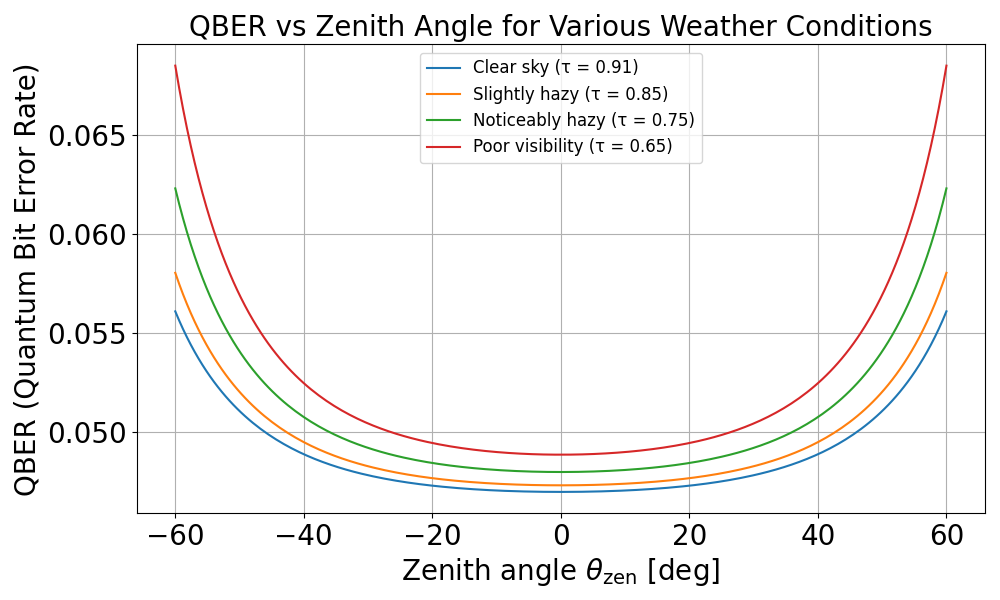
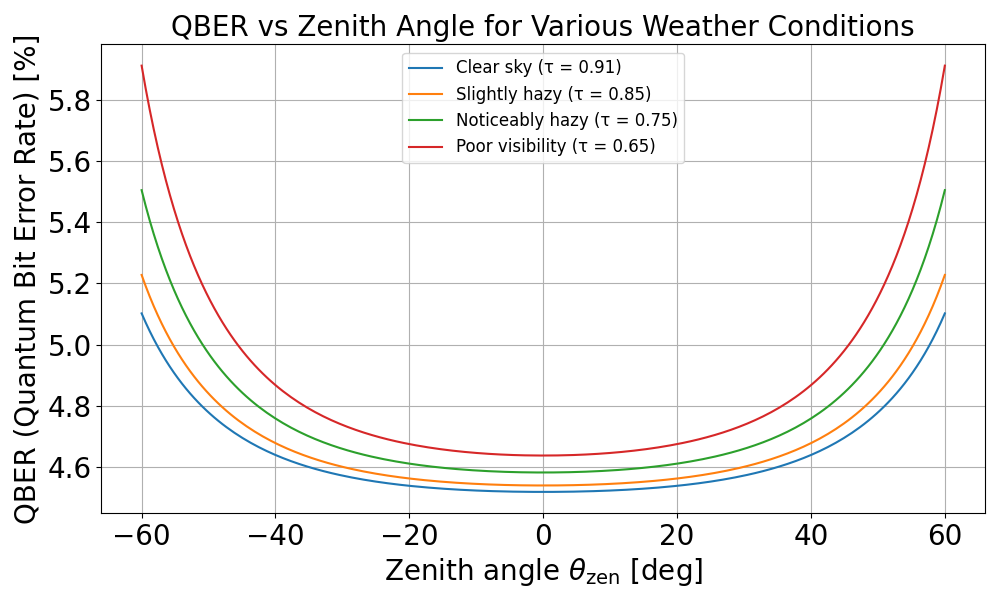
WIP:simulate average of QBER

diff --git a/BB84/Model/fading.py b/BB84/Model/fading.py
@@ -13,70 +13,63 @@ from circle_beam_transmissivity import transmissivity_etab
 #==================================================================#
 # a : Aperture of radius (Receiver radis in meters) (m)
 #==================================================================#
-a = 0.75
+# a = 0.75
 
-#==================================================================#
-# r : Radial jitter distance (m)
-#==================================================================#
-r = 5
+# #==================================================================#
+# # r : Radial jitter distance (m)
+# #==================================================================#
+# r = 5
 
-#==================================================================#
-# len_wave : Optical wavelength (μm)
-#==================================================================#
-len_wave = 0.85e-6
+# #==================================================================#
+# # len_wave : Optical wavelength (μm)
+# #==================================================================#
+# len_wave = 0.85e-6
 
-#==================================================================#
-# sigma_R : Rytov variance (乱流の強さの指標)
-#==================================================================#
-# sigma_R_squared = 1.0
+# #==================================================================#
+# # altitude ground station
+# #==================================================================#
+# H_ogs = 10 # (m)
 
-#==================================================================#
-# altitude ground station
-#==================================================================#
-H_ogs = 10 # (m)
+# #==================================================================#
+# # h_s : Altitude between LEO satellite and ground station (m)
+# #==================================================================#
+# h_s = 500e3  # 500 km
 
-#==================================================================#
-# h_s : Altitude between LEO satellite and ground station (m)
-#==================================================================#
-h_s = 500e3  # 500 km
+# #==================================================================#
+# # H_a : Upper end of atmosphere (km)
+# #==================================================================#
+# H_a = 0.01  # 10 m (大気の終端高度)
 
-#==================================================================#
-# H_a : Upper end of atmosphere (km)
-#==================================================================#
-H_a = 0.01  # 10 m (大気の終端高度)
+# #==================================================================#
+# # tau_zen : Transmission efficiency at zenith
+# #==================================================================#
+# tau_zen = 0.85  # 天頂方向での大気透過率
 
-#==================================================================#
-# tau_zen : Transmission efficiency at zenith
-#==================================================================#
-tau_zen = 0.85  # 天頂方向での大気透過率
+# #==================================================================#
+# # theta_zen_rad : Zenith angle (rad)
+# #==================================================================#
+# # theta_zen_rad = math.radians(10)
 
-#==================================================================#
-# theta_zen_rad : Zenith angle (rad)
-#==================================================================#
-theta_zen_rad = math.radians(31.45)
+# #==================================================================#
+# # theta_d_rad : Optical beam divergence angle (rad)
+# #==================================================================#
+# theta_d_rad = 10e-6 
 
-#==================================================================#
-# theta_d_rad : Optical beam divergence angle (rad)
-#==================================================================#
-theta_d_rad = 10e-6 
-
-#==================================================================#
-# v_wind: wind_speed
-#==================================================================#
-v_wind = 21 
-
-
-#==================================================================#
+# #==================================================================#
+# # v_wind: wind_speed
+# #==================================================================#
+# v_wind = 21 
+# #==================================================================#
 # the maximum vertical altitude of atmosphere scaled from maximum 
 # slant path h_slant,max over the atmosphere at minimum zenith angle
 # atomospheric altitude
 #==================================================================#
-H_atm = 20000*math.cos(theta_zen_rad) 
+# H_atm = 20000*math.cos(theta_zen_rad) 
 
 #==================================================================#
 # waist : Beam waist radius at receiver (m)
 #==================================================================#
-waist = beam_waist(h_s, H_a, theta_zen_rad, theta_d_rad)
+# waist = beam_waist(h_s, H_a, theta_zen_rad, theta_d_rad)
 
 
 def get_beam_jitter_params(condition, theta_d_rad):
@@ -122,17 +115,17 @@ def approximate_jitter_variance(mu_x, mu_y, sigma_x, sigma_y):
     return sigma_mod_value
 
 # calculate the ratios between the equivalent beam-width and (modified) beam-jitter variances
-def sigma_to_variance(sigma):
+def sigma_to_variance(sigma, waist):
     variance = waist/2*sigma
     return variance
 
 # calculate the modified fracton of collected power over the receiving aparture when there is no pointing error
-def mod_jitter(mu_x, mu_y, sigma_x, sigma_y):
+def mod_jitter(mu_x, mu_y, sigma_x, sigma_y, waist):
     A_0 = transmissivity_0(a, waist)
-    varphi_x = sigma_to_variance(sigma_x)
-    varphi_y = sigma_to_variance(sigma_y)
+    varphi_x = sigma_to_variance(sigma_x, waist)
+    varphi_y = sigma_to_variance(sigma_y, waist)
     sigma_mod = approximate_jitter_variance(mu_x, mu_y, sigma_x, sigma_y)
-    varphi_mod = sigma_to_variance(sigma_mod)
+    varphi_mod = sigma_to_variance(sigma_mod, waist)
     term1 = 1 / (varphi_mod ** 2)
     term2 = 1 / (2 * varphi_x ** 2)
     term3 = 1 / (2 * varphi_y ** 2)
@@ -161,16 +154,7 @@ def rytov_variance(len_wave, theta_zen_rad, H_OGS, H_atm, Cn2_profile):
 #     """ A simple model for Cn^2(h) [m^-2/3] """
 #     return 1e-14 * np.exp(-h / 1000) 
 
-def cn2_profile(h, v_wind=21, Cn2_0=1e-15):
-    """
-    More realistic Cn^2(h) profile based on empirical model.
-    Parameters:
-        h : altitude [m]
-        v_wind : wind speed (m/s)
-        Cn2_0 : Cn^2 at ground level (m^-2/3)
-    Returns:
-        Cn^2(h) in m^-2/3
-    """
+def cn2_profile(h, v_wind=21, Cn2_0=1e-17):
     term1 = 0.00594 * (v_wind / 27)**2 * (1e-5 * h)**10 * np.exp(-h / 1000)
     term2 = 2.7e-16 * np.exp(-h / 1500)
     term3 = Cn2_0 * np.exp(-h / 100)
@@ -178,11 +162,11 @@ def cn2_profile(h, v_wind=21, Cn2_0=1e-15):
 
 
 # Calculate the fading loss value
-def fading_loss(gamma, mu_x, mu_y, sigma_x, sigma_y):
+def fading_loss(gamma, mu_x, mu_y, sigma_x, sigma_y, theta_zen_rad, H_atm, waist):
     eta_t = transmissivity_etat(tau_zen, theta_zen_rad)
     sigma_R_squared = rytov_variance(len_wave, theta_zen_rad, H_ogs, H_atm, cn2_profile)
     varphi_mod = 4.3292
-    A_mod = mod_jitter(mu_x, mu_y, sigma_x, sigma_y)
+    A_mod = mod_jitter(mu_x, mu_y, sigma_x, sigma_y, waist)
     mu = sigma_R_squared/2 * (1+2*varphi_mod**2)
     term1 = (varphi_mod**2) / (2 * (A_mod * eta_t)**(varphi_mod**2))
     term2 = gamma ** (varphi_mod**2 - 1)
@@ -198,18 +182,22 @@ def to_decimal_string(x, precision=100):
 
 def main():
     # conditon: strong, moderate or weak
-    # params = get_beam_jitter_params(condition="strong", theta_d_rad=theta_d_rad)
-    # mu_x = params["mu_x"]
-    # mu_y = params["mu_y"]
-    # sigma_x = params["sigma_x"]
-    # sigma_y = params["sigma_y"]
-    # eta_t = transmissivity_etat(tau_zen, theta_zen_rad)
-    # eta_b = transmissivity_etab(a, r, waist)
-    # gamma= eta_t * eta_b
+    params = get_beam_jitter_params(condition="strong", theta_d_rad=theta_d_rad)
+    mu_x = params["mu_x"]
+    mu_y = params["mu_y"]
+    sigma_x = params["sigma_x"]
+    sigma_y = params["sigma_y"]
+    theta_zen_rad = math.radians(10)
+    H_atm = 20000*math.cos(theta_zen_rad) 
+    waist = beam_waist(h_s, H_a, theta_zen_rad, theta_d_rad)
+    eta_t = transmissivity_etat(tau_zen, theta_zen_rad)
+    eta_b = transmissivity_etab(a, r, waist)
+    gamma= eta_t * eta_b
 
-    # fading_val = fading_loss(gamma, mu_x, mu_y, sigma_x, sigma_y)
-    # print(f'Fading loss: {to_decimal_string(fading_val)}')
-    sigma_R_squared = rytov_variance(len_wave, theta_zen_rad, H_ogs, H_atm, simple_cn2_profile)
+    fading_val = fading_loss(gamma, mu_x, mu_y, sigma_x, sigma_y, theta_zen_rad, H_atm)
+    print(f'Fading loss: {to_decimal_string(fading_val)}')
+
+    sigma_R_squared = rytov_variance(len_wave, theta_zen_rad, H_ogs, H_atm, cn2_profile)
     print(f'H_atm: {H_atm:.3f} m')
     print(fr'$\sigma_{{R}}^2$: {sigma_R_squared}')
 

diff --git a/BB84/SimulationResult/Circle_beam/QBER/ave_qber_zenith.py b/BB84/SimulationResult/Circle_beam/QBER/ave_qber_zenith.py
@@ -31,7 +31,7 @@ a = 0.75
 #==================================================================#
 # n_s : average number of photon
 #==================================================================#
-n_s = 0.5
+n_s = 0.8
 
 #==================================================================#
 # len_wave : Optical wavelength (μm)
@@ -167,7 +167,7 @@ def rytov_variance(len_wave, theta_zen_rad, H_OGS, H_atm, Cn2_profile):
 #     """ A simple model for Cn^2(h) [m^-2/3] """
 #     return 1e-14 * np.exp(-h / 1000) 
 
-def cn2_profile(h, v_wind=21, Cn2_0=1e-17):
+def cn2_profile(h, v_wind=21, Cn2_0=1e-15):
     term1 = 0.00594 * (v_wind / 27)**2 * (1e-5 * h)**10 * np.exp(-h / 1000)
     term2 = 2.7e-16 * np.exp(-h / 1500)
     term3 = Cn2_0 * np.exp(-h / 100)
@@ -253,7 +253,6 @@ def weather_condition(tau_zen):
 #     plt.show()
 
 def main():
-
     tau_zen_list = [0.91, 0.85, 0.75, 0.65]
     theta_zen_deg_list = np.linspace(-60, 60, 200)
 
@@ -268,14 +267,14 @@ def main():
 
             waist = beam_waist(h_s, H_ogs, theta_zen_rad, theta_d_rad)
             qber = qner_new_infinite(theta_zen_rad, H_atm, waist, tau_zen)
-            qber_values.append(qber)
+            qber_values.append(qber*100)
 
         label = weather_condition(tau_zen) + f" (τ = {tau_zen})"
         plt.plot(theta_zen_deg_list, qber_values, label=label)
 
     # グラフ装飾
     plt.xlabel(r"Zenith angle $\theta_{\mathrm{zen}}$ [deg]", fontsize=20)
-    plt.ylabel(r"QBER (Quantum Bit Error Rate)", fontsize=20)
+    plt.ylabel(r"QBER (Quantum Bit Error Rate) [%]", fontsize=20)
     plt.title("QBER vs Zenith Angle for Various Weather Conditions", fontsize=20)
     plt.grid(True)
     plt.legend(fontsize=12)

diff --git a/BB84/Model/ave_qber.py b/BB84/Model/ave_qber.py
@@ -1,0 +1,50 @@
+from scipy.integrate import quad
+import math
+import numpy as np
+from fading import fading_loss
+from qber import qber_loss
+from fading import get_beam_jitter_params
+from circle_beam_transmissivity import transmissivity_etab, satellite_ground_distance, beam_waist
+from atmospheric_transmissivity import transmissivity_etat
+
+
+a = 0.75
+h_s = 500e3
+H_a = 0.01
+r = 0
+n_s = 0.1
+#==================================================================#
+# theta_d_rad : Optical beam divergence angle (rad)
+#==================================================================#
+theta_d_rad = 10e-6 
+tau_zen = 0.91
+condition = 'weak'
+theta_zen_deg = 10
+theta_zen_rad = math.radians(theta_zen_deg)
+
+waist = beam_waist(h_s, H_a, theta_zen_rad, theta_d_rad)
+eta_b = transmissivity_etab(a, r, waist)
+
+
+#==================================================================#
+# fading_loss : PDF of beam jitter for γ
+# qber_loss   : Transmission efficiency Bit error rate with respect to γ
+#==================================================================#
+def qner_ave_infinite():
+    params = get_beam_jitter_params(condition=condition, theta_d_rad=theta_d_rad)
+    mu_x = params["mu_x"]
+    mu_y = params["mu_y"]
+    sigma_x = params["sigma_x"]
+    sigma_y = params["sigma_y"]
+
+    def integrand(gamma_mean):
+        return fading_loss(gamma_mean, mu_x, mu_y, sigma_x, sigma_y) * qber_loss(gamma_mean, n_s)
+
+    result, _ = quad(integrand, 0, 1, limit=100, epsabs=1e-9, epsrel=1e-9)
+    return result
+
+def main():
+    print(f'QBER: {qner_ave_infinite() * 100} %')
+
+if __name__ == "__main__":
+    main()

diff --git a/BB84/Model/qber.py b/BB84/Model/qber.py
@@ -4,10 +4,7 @@ import numpy as np
 from circle_beam_transmissivity import transmissivity_etab, beam_waist
 from atmospheric_transmissivity import transmissivity_etat
 
-a = 0.75                    
-h_s = 500e3       
-H_g = 10
-theta_d_rad = 10e-6
+
 
 #=======================================================#
 # QBER parameters
@@ -37,6 +34,10 @@ def to_decimal_string(x, precision=120):
     return format(x, f'.{precision}f').rstrip('0').rstrip('.')
 
 def main():
+    a = 0.75                    
+    h_s = 500e3       
+    H_g = 10
+    theta_d_rad = 10e-6
     n_s = 0.1
     r = 4
     tau_zen = 0.91

diff --git a/BB84/Model/circle_beam_transmissivity.py b/BB84/Model/circle_beam_transmissivity.py
@@ -14,14 +14,14 @@ import numpy as np
     # a      : Aperture of radius (Receiver radis in meters)
     #======================#
 # D_r = 1.5 #(a = 0.75m)
-a = 0.75
+# a = 0.75
 #=======================================================#
 
 # Receiver altitude(アンテナの高さ e.g., 10m)
-H_g = 10
+# H_g = 10
 
 # Divergence angle
-theta_d_rad = 20e-6
+# theta_d_rad = 20e-6
 
 #=======================================================#
 # Transmissivity nb(eta_b)
